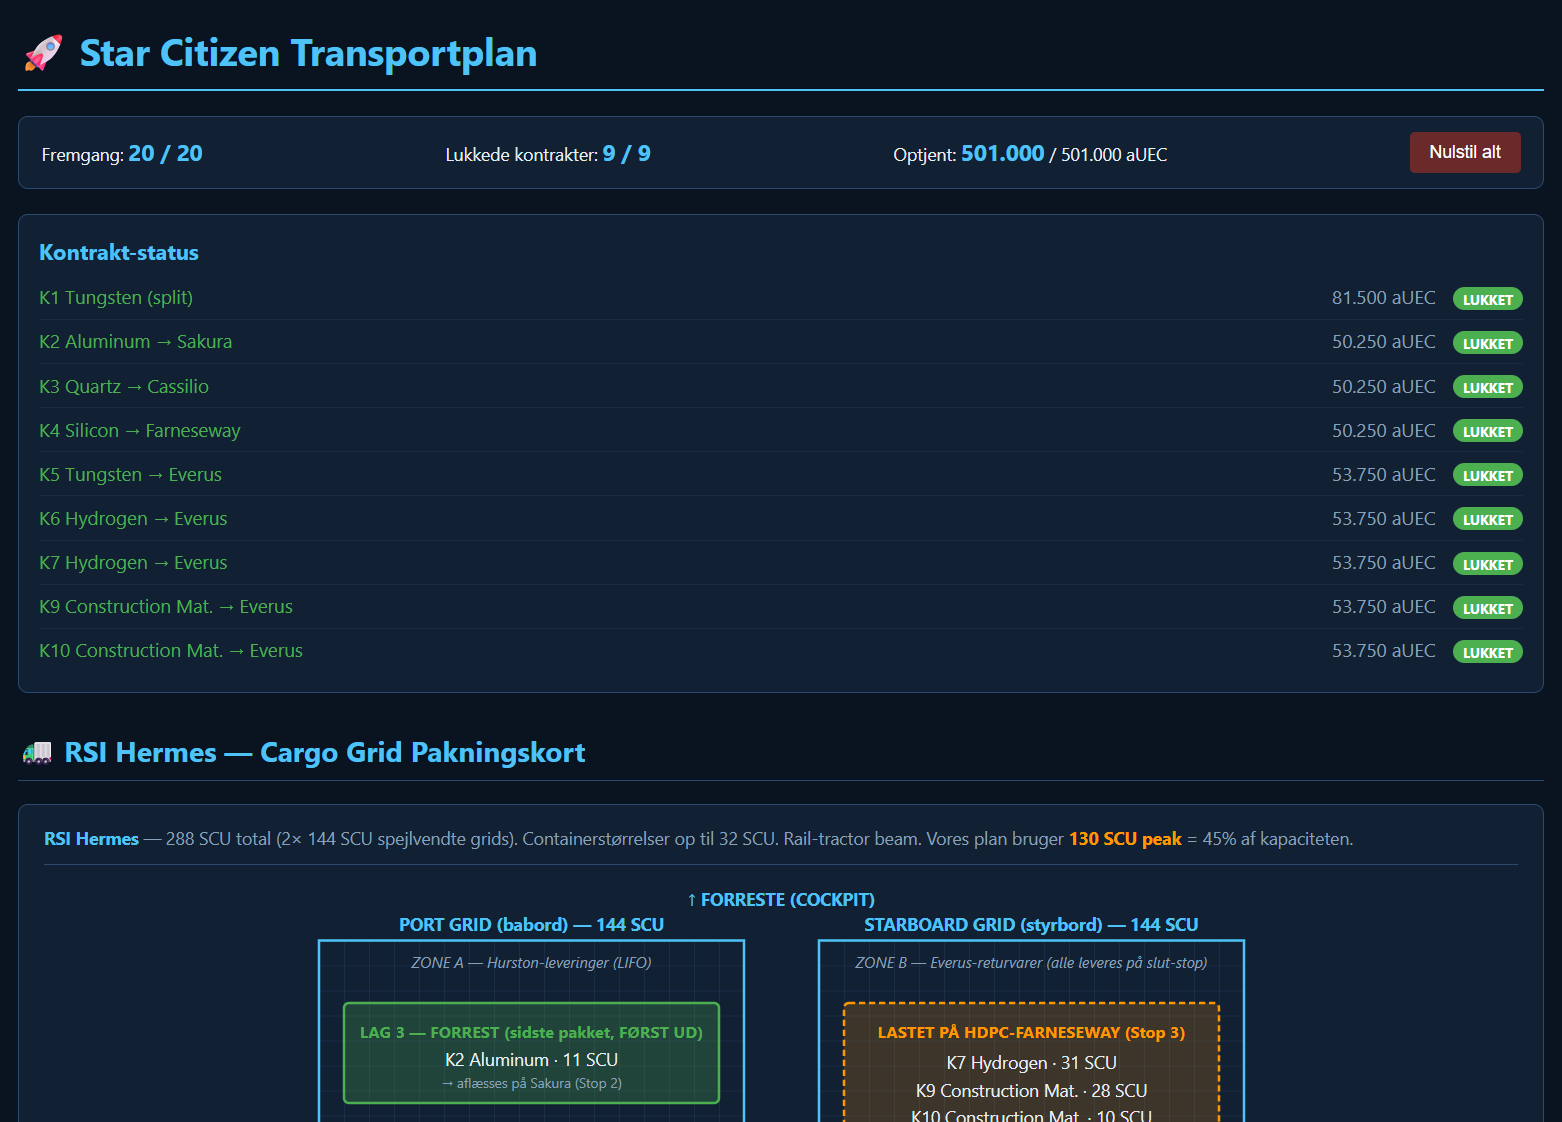
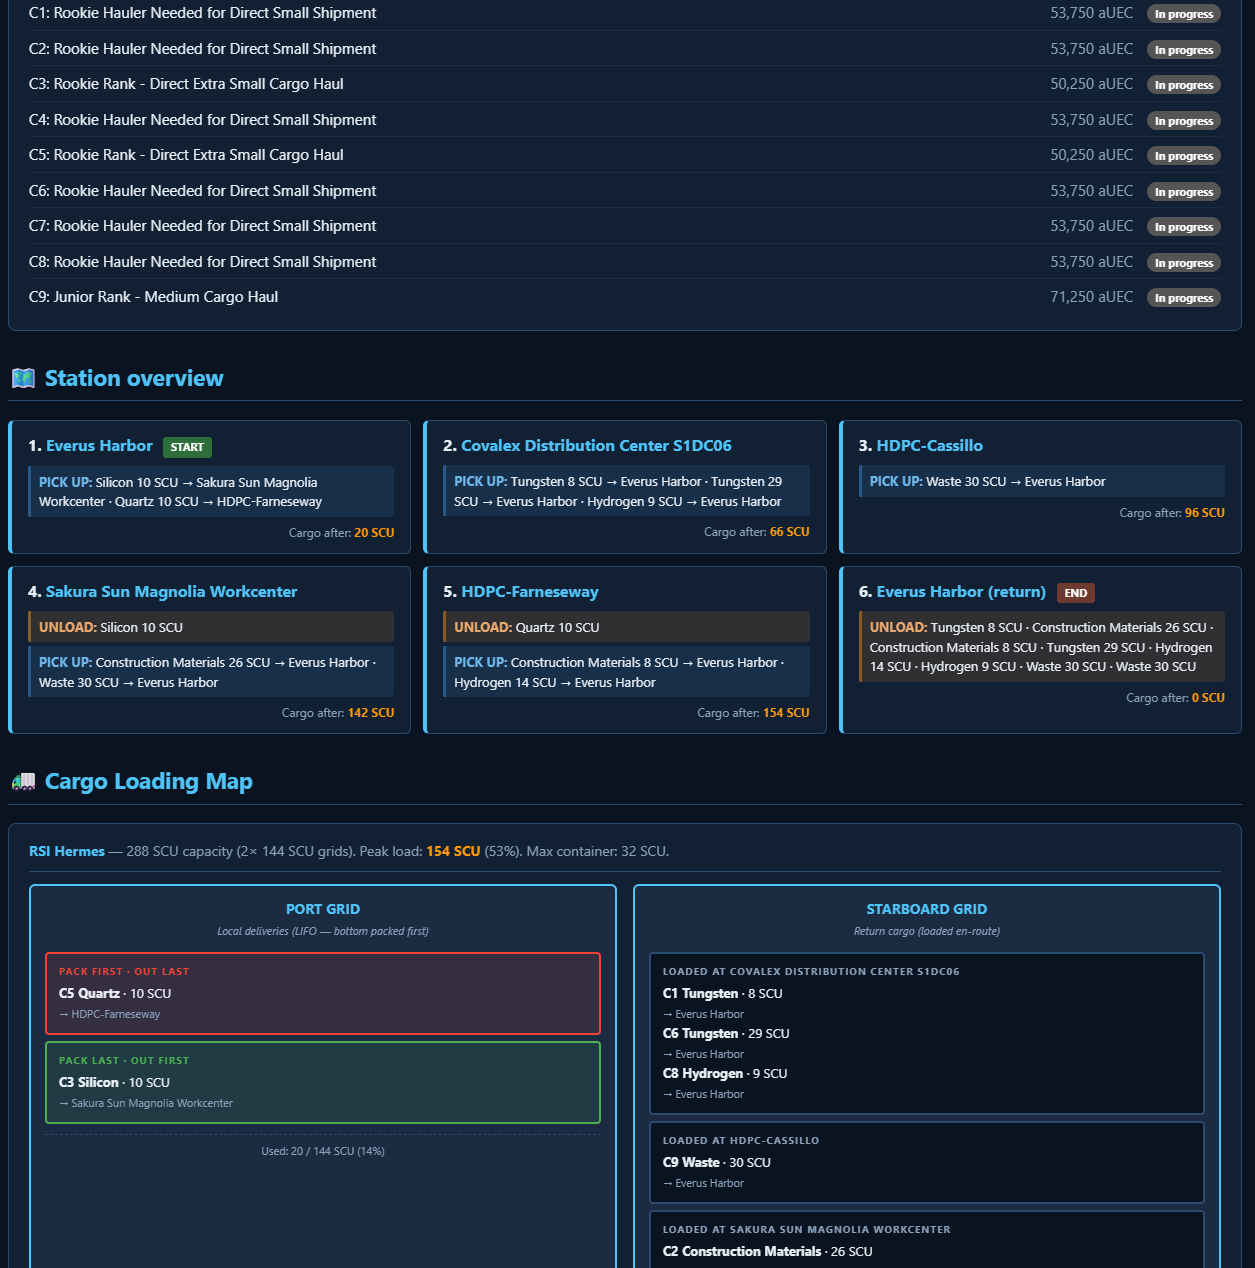
Replace demo screenshot with English UI version
Previous screenshots were from the Danish manual prototype. New
screenshot shows the auto-generator output with the contract status,
station overview and the cargo loading map all in English.

Changed region(s): [[0.0, 0.0, 0.9944, 1.0], [0.5594, 0.1248, 0.7458, 0.156], [0.9323, 0.7487, 0.9633, 0.7799]]

diff --git a/README.md b/README.md
@@ -6,17 +6,9 @@ Single-file web app that automatically generates optimized transport plans for S
 
 ## Demo
 
-Generated plan from a 9-contract run on Hurston (Everus Harbor → Sakura → HDPC-Farneseway → HDPC-Cassilio → Everus Harbor):
+Generated plan from a 9-contract run on Hurston starting at Everus Harbor with the RSI Hermes. Shows the contract status, station-by-station overview, and the Cargo Loading Map with Port Grid (local Hurston deliveries) and Starboard Grid (Everus-bound return cargo loaded en-route):
 
-![Overview with progress bar and contract status](screenshots/01-overview.png)
-
-Cargo loading map for the RSI Hermes (mirrored 144 SCU grids), showing the LIFO layers in the Port Grid for Hurston deliveries and the Starboard Grid filled in-flight with Everus-bound return cargo:
-
-![Hermes cargo grid loading map](screenshots/02-hermes-cargo-grid.png)
-
-Station overview and step-by-step checklist with tick-as-you-go pickups and deliveries:
-
-![Step-by-step checklist](screenshots/03-step-by-step.png)
+![Generated transport plan with station overview and cargo loading map](screenshots/01-overview.png)
 
 ## Features
 
